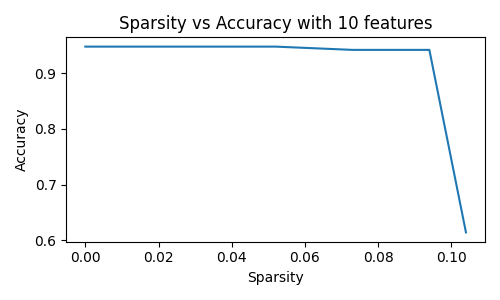
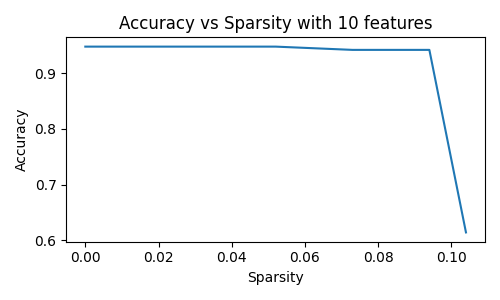
fix graph titles to represent propery dependent-independent variable relationship

Changed region(s): [[0.24, 0.03, 0.57, 0.12]]

diff --git a/plot_results.py b/plot_results.py
@@ -20,7 +20,7 @@ def main():
     plt.plot(df['Threshold'], df['Accuracy'])
     plt.xlabel('Threshold')
     plt.ylabel('Accuracy')
-    plt.title(f'Pruning Threshold vs Accuracy with {num_features} features')
+    plt.title(f'Accuracy vs Pruning Threshold with {num_features} features')  
     plt.savefig(f'plots/threshold_accuracy_{argv[1]}_features.png')
     plt.clf()
 
@@ -28,7 +28,7 @@ def main():
     plt.plot(df['Threshold'], df['Sparsity'])
     plt.xlabel('Threshold')
     plt.ylabel('Sparsity')
-    plt.title(f'Pruning Threshold vs Sparsity with {num_features} features')
+    plt.title(f'Sparsity vs Pruning Threshold with {num_features} features')
     plt.savefig(f'plots/threshold_sparsity_{argv[1]}_features.png')
     plt.clf()
 
@@ -36,7 +36,7 @@ def main():
     plt.plot(df['Sparsity'], df['Accuracy'])
     plt.xlabel('Sparsity')
     plt.ylabel('Accuracy')
-    plt.title(f'Sparsity vs Accuracy with {num_features} features')
+    plt.title(f'Accuracy vs Sparsity with {num_features} features')
     plt.savefig(f'plots/sparsity_accuracy_{argv[1]}_features.png')
     plt.clf()
 
